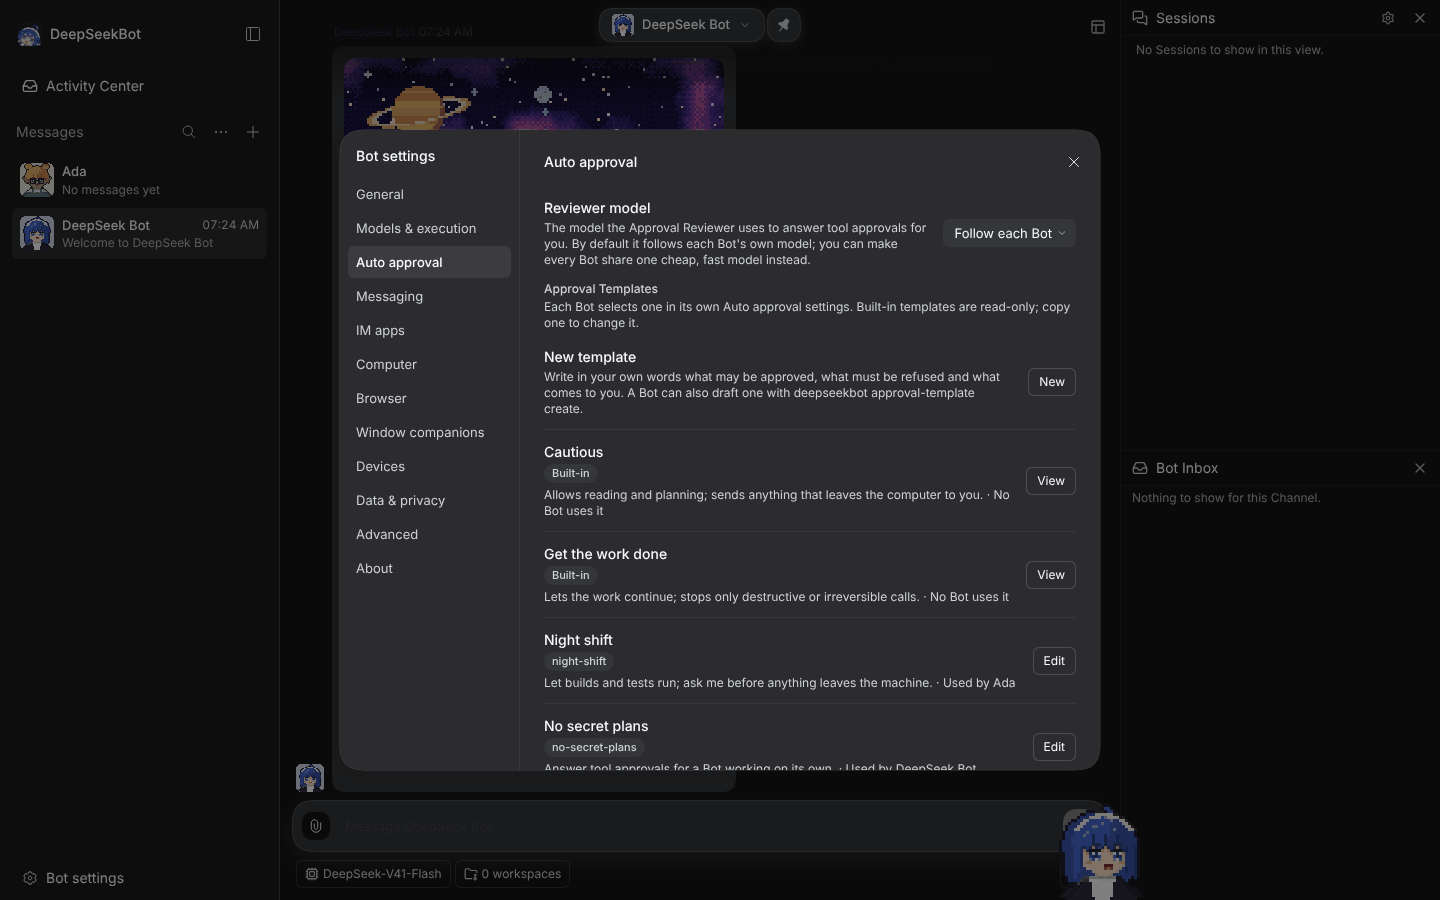
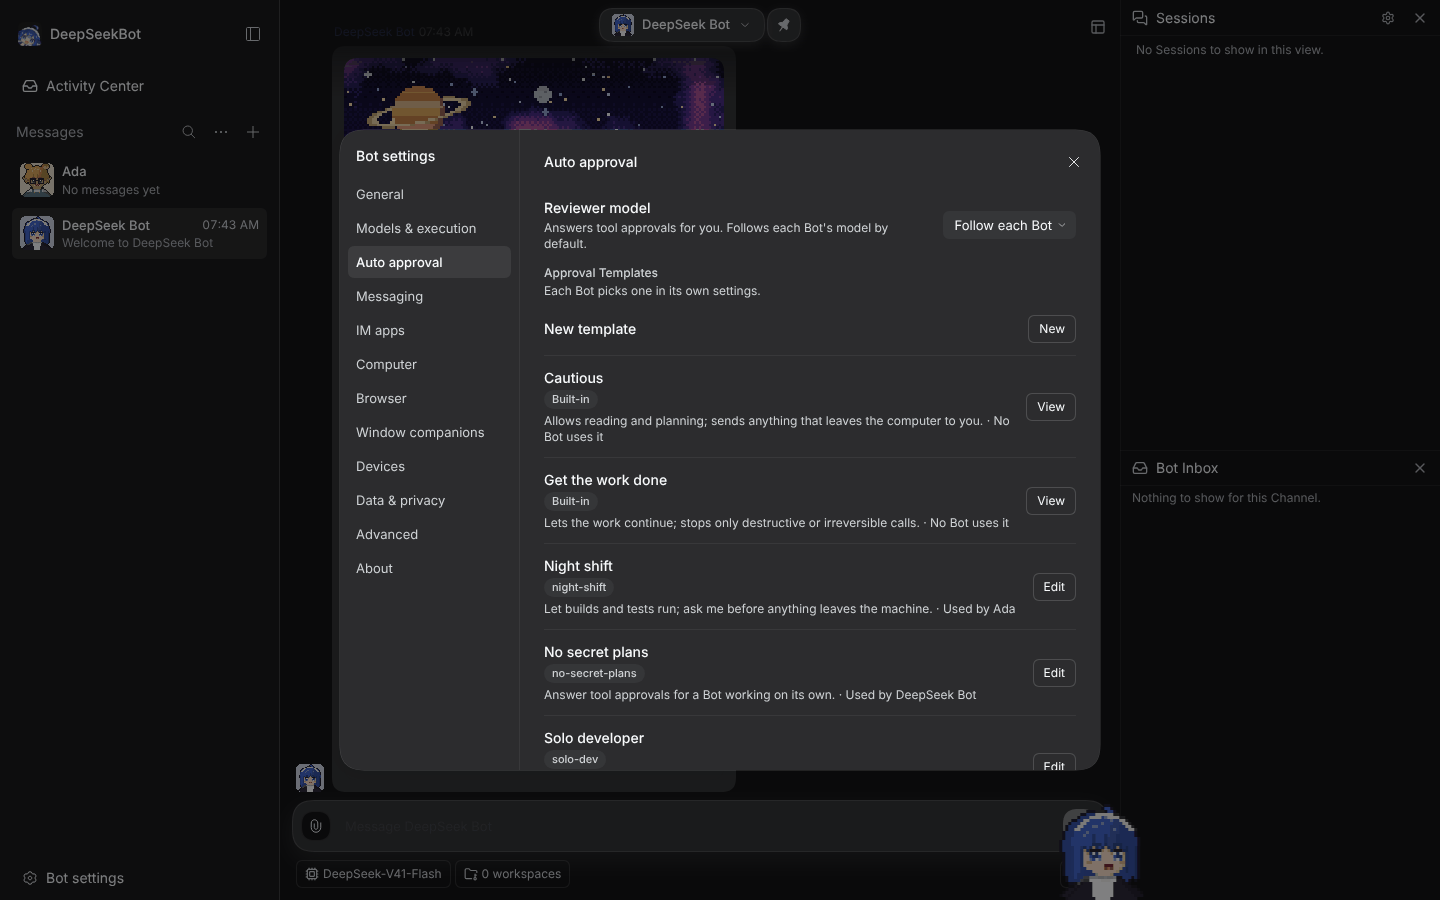
Shorten the Auto approval settings copy
Issue: #1824
Agent-Task: claude/cloud/session_01LYYvVNygzXDx3NuY74GTfR

Claude-Session: https://claude.ai/code/session_01LYYvVNygzXDx3NuY74GTfR

diff --git a/packages/client/src/client/locale.ts b/packages/client/src/client/locale.ts
@@ -3108,8 +3108,7 @@ export const zh = {
     'Lark 创建人：{actor}；每次调用前检查当前配对及 approve／save-rules 权限，失效后不自动恢复。',
   'approval.ruleDetails': '查看适用范围',
   'autoApproval.reviewerModel.title': '审批员模型',
-  'autoApproval.reviewerModel.description':
-    '审批员替你回答工具审批时用的模型。默认跟随每个 Bot 自己的模型；也可以让所有 Bot 共用一个便宜又快的模型。',
+  'autoApproval.reviewerModel.description': '替你回答工具审批的模型，默认跟随每个 Bot。',
   'autoApproval.reviewerModel.followBot': '跟随每个 Bot',
   'autoApproval.reviewerModel.missing': '{model}（不可用）',
   'autoApproval.reviewerModel.unavailable':
@@ -3132,11 +3131,9 @@ export const zh = {
   'autoApproval.template.getWorkDone': '把活干完',
   'autoApproval.template.getWorkDoneHint': '让工作继续；只拦下破坏性或不可撤回的操作。',
   'autoApproval.library.title': '审批模板',
-  'autoApproval.library.description':
-    '每个 Bot 在自己的“自动审批”设置里选用一个。内置模板只读，复制一份后再改。',
+  'autoApproval.library.description': '每个 Bot 在自己的设置里选用一个。',
   'autoApproval.library.new': '新建模板',
-  'autoApproval.library.newHint':
-    '用你自己的话写清楚：哪些可以批准、哪些必须拒绝、哪些交给你。也可以让 Bot 用 deepseekbot approval-template create 起草。',
+  'autoApproval.library.newHint': '写清楚哪些放行、哪些拒绝、哪些问你。',
   'autoApproval.library.create': '新建',
   'autoApproval.library.createSubmit': '创建',
   'autoApproval.library.createTitle': '新建审批模板',
@@ -6789,7 +6786,7 @@ My relationship with you, established lore and topics to avoid: [fill in].
   'approval.ruleDetails': 'View scope',
   'autoApproval.reviewerModel.title': 'Reviewer model',
   'autoApproval.reviewerModel.description':
-    "The model the Approval Reviewer uses to answer tool approvals for you. By default it follows each Bot's own model; you can make every Bot share one cheap, fast model instead.",
+    "Answers tool approvals for you. Follows each Bot's model by default.",
   'autoApproval.reviewerModel.followBot': 'Follow each Bot',
   'autoApproval.reviewerModel.missing': '{model} (unavailable)',
   'autoApproval.reviewerModel.unavailable':
@@ -6815,11 +6812,9 @@ My relationship with you, established lore and topics to avoid: [fill in].
   'autoApproval.template.getWorkDoneHint':
     'Lets the work continue; stops only destructive or irreversible calls.',
   'autoApproval.library.title': 'Approval Templates',
-  'autoApproval.library.description':
-    'Each Bot selects one in its own Auto approval settings. Built-in templates are read-only; copy one to change it.',
+  'autoApproval.library.description': 'Each Bot picks one in its own settings.',
   'autoApproval.library.new': 'New template',
-  'autoApproval.library.newHint':
-    'Write in your own words what may be approved, what must be refused and what comes to you. A Bot can also draft one with deepseekbot approval-template create.',
+  'autoApproval.library.newHint': 'Say what to allow, what to refuse and what to ask you.',
   'autoApproval.library.create': 'New',
   'autoApproval.library.createSubmit': 'Create',
   'autoApproval.library.createTitle': 'New Approval Template',

diff --git a/packages/client/src/client/approval-template-library.tsx b/packages/client/src/client/approval-template-library.tsx
@@ -258,7 +258,6 @@ export function ApprovalTemplateLibrarySettings({
       >
         <SettingsRow
           title={t('autoApproval.library.new')}
-          description={t('autoApproval.library.newHint')}
           data={{ 'data-approval-template-new': '' }}
           control={
             <Button
